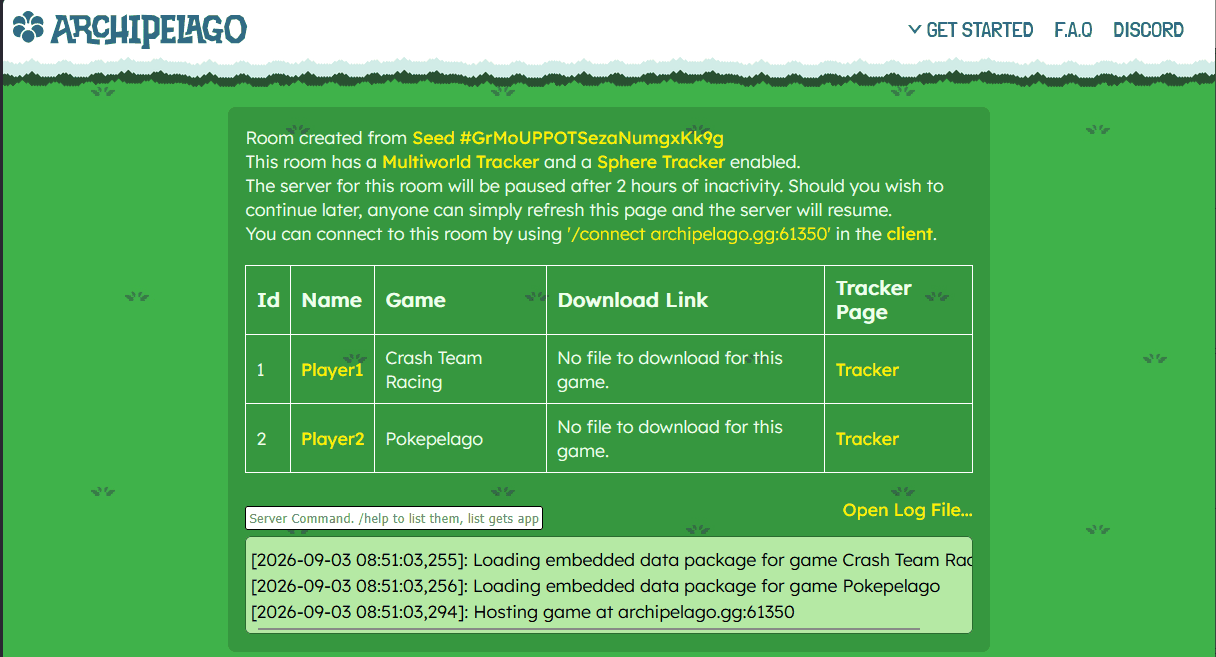
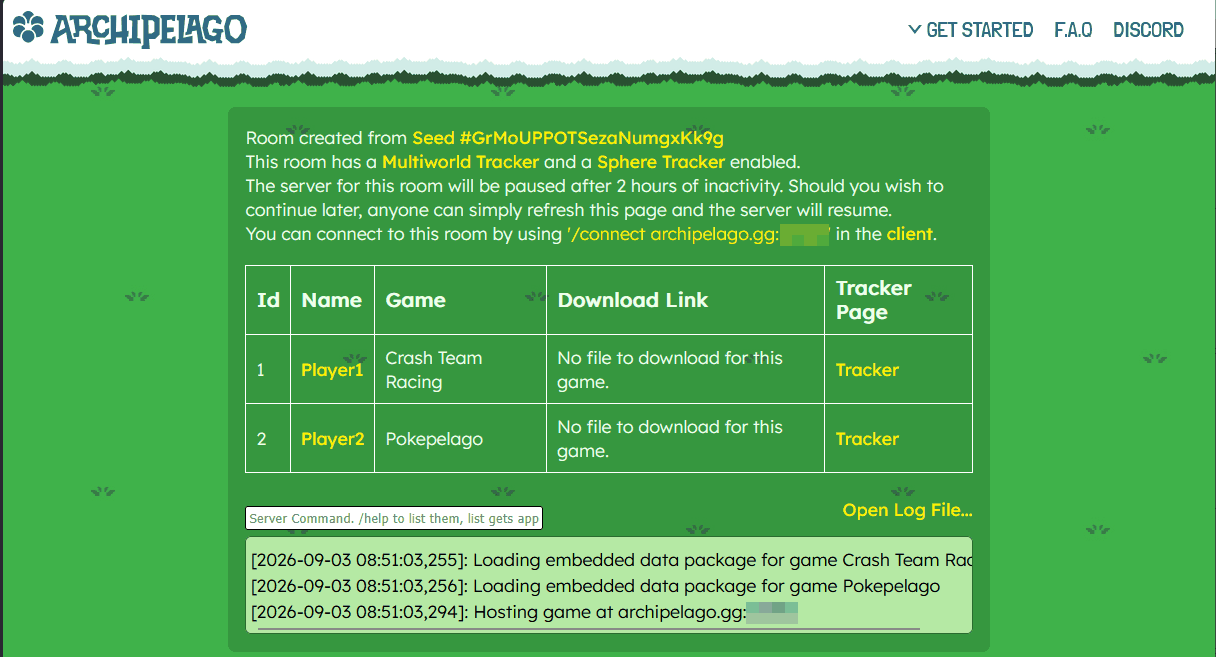
docs(guides): tighten the seed crop and blank the room port
The seed page is cropped to the card, matching the Host Game shot instead of
carrying a screen of empty background.

The room page had a live connect port in the connect line and again in the
server log. Ports are handed out per room, so a published screenshot would
point readers at whichever room holds that port later. Both are pixelated and
the caption says why.

Changed region(s): [[0.625, 0.3349, 0.6875, 0.3957], [0.5938, 0.9132, 0.6562, 0.9741]]

diff --git a/ap-web/guides/hosting-a-multiworld.md b/ap-web/guides/hosting-a-multiworld.md
@@ -69,7 +69,7 @@ Give every player a complete handoff:
 
 ![An archipelago.gg room page showing the connect line with the address and port, the slot table, and the server log.](/img/guides/hosting-room-page.png)
 
-*The room page carries the connect line players need, the slot table with any downloadable data files, and a console for host commands.*
+*The room page carries the connect line players need, the slot table with any downloadable data files, and a console for host commands. The port is blanked out here because every room gets its own.*
 
 From there each game's client, mod, or connector takes over. [Setting up an Archipelago game client](/guides/setting-up-a-game-client) explains the common patterns and a pre-play test. Exact installation steps belong in the game-specific guide.
 
